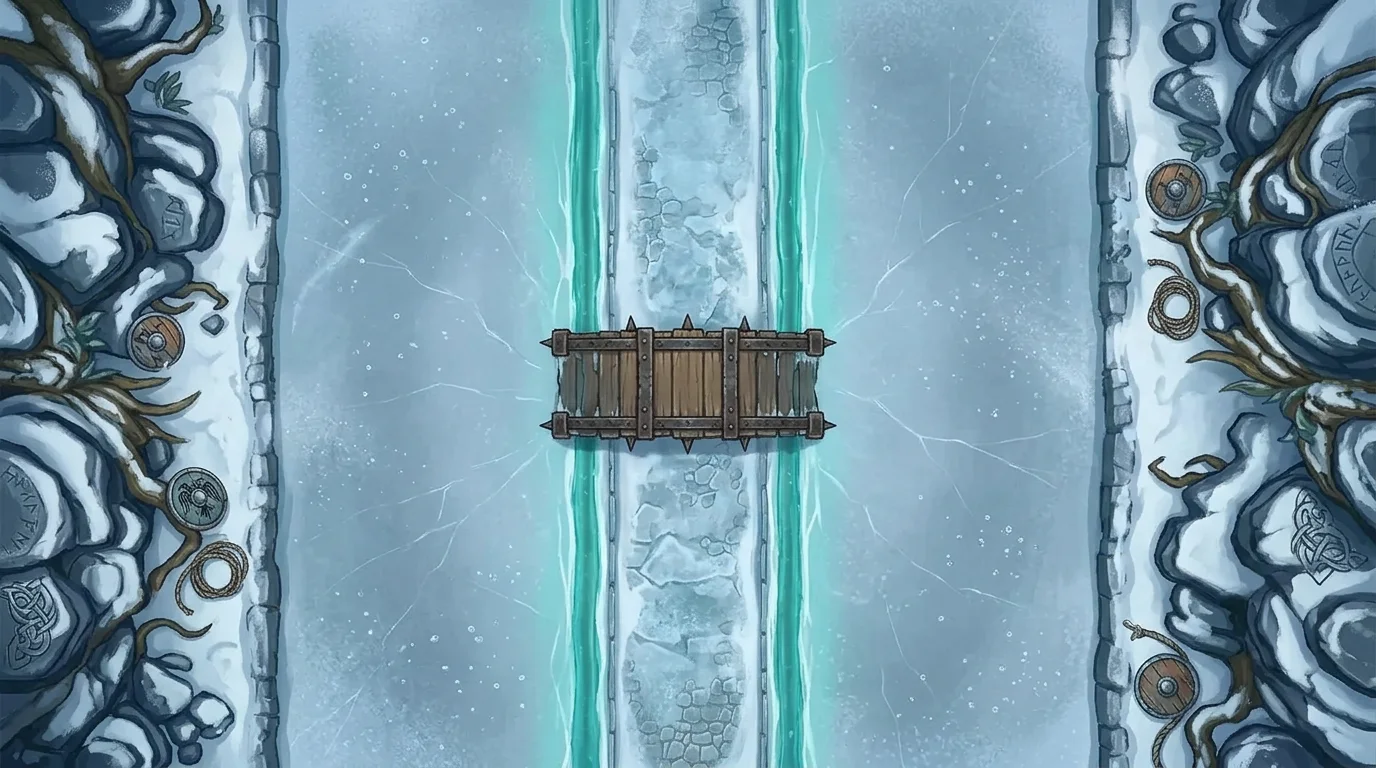
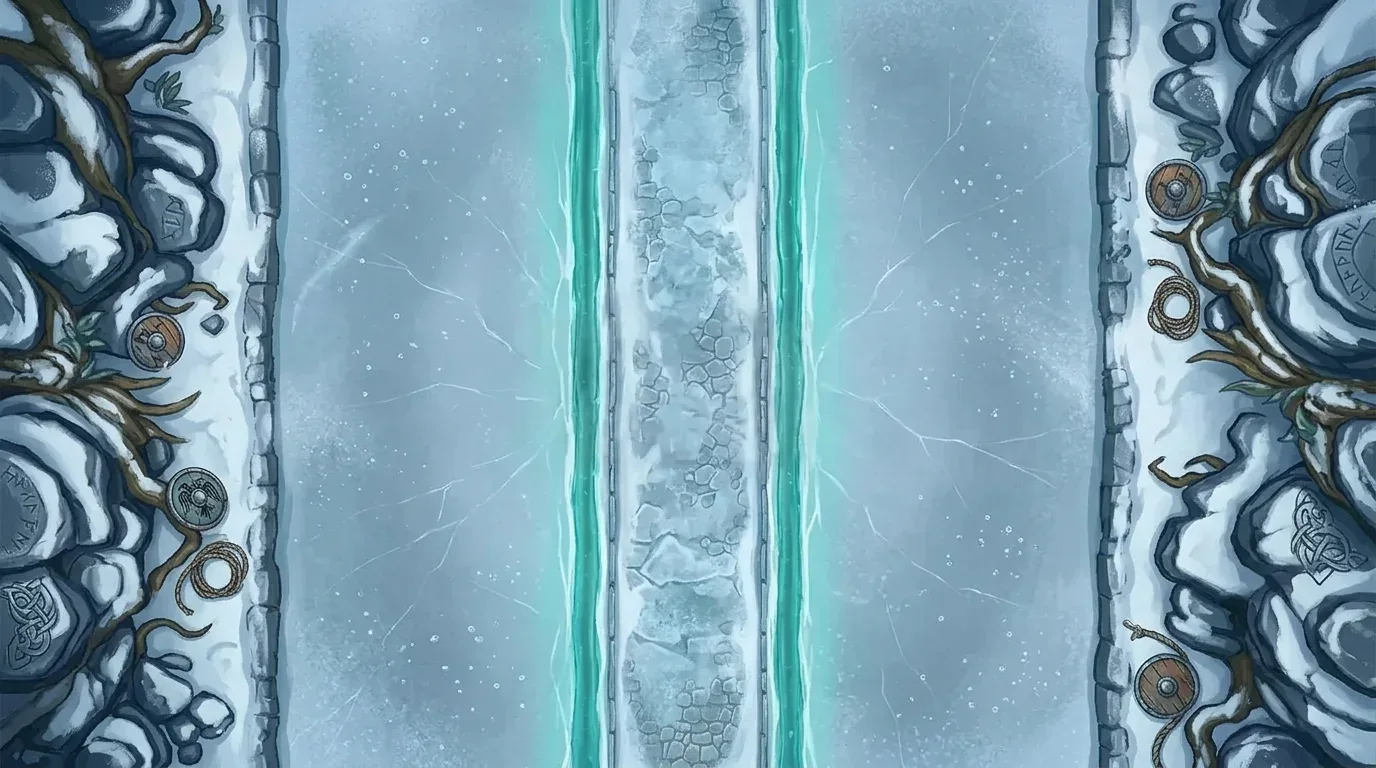
Add cinematic MOBA chapter masters and clear frozen lane

Changed region(s): [[0.375, 0.4062, 0.625, 0.5938]]

diff --git a/src/games/RpgMobaBoard.jsx b/src/games/RpgMobaBoard.jsx
@@ -79,6 +79,15 @@ const MOBA_PHASE_STEPS = [
   { id: 'blocage', label: 'Réponse', title: 'Réponse à l’attaque' },
   { id: 'fin', label: 'Réponse', title: 'Réponse de fin de tour' },
 ];
+// Répartition fixe : pas de tirage aléatoire à chaque rendu du master.
+const FLOCONS_INTERLUDE = Array.from({ length: 36 }, (_, index) => ({
+  '--flake-x': `${(index * 37 + index * index * 3) % 100}%`,
+  '--flake-y': `${(index * 29 + 11) % 100}%`,
+  '--flake-size': `${2 + index % 4}px`,
+  '--flake-delay': `${-((index * 13) % 120) / 10}s`,
+  '--flake-duration': `${9 + index % 7 * 2}s`,
+  '--flake-drift': `${(index * 19) % 55 - 27}px`,
+}));
 const TAILLE_PAGE_MAIN = 6;
 const noms = { joueur: 'Vous', sorcier: 'IA', tous: 'Vous + IA' };
 const voies = { left: 'Voie gauche', center: 'Voie centrale', right: 'Voie droite' };
@@ -205,6 +214,7 @@ export default function RpgMobaBoard({ onQuitter, onBackRef = null, initialiser 
   const [plateauMoba, setPlateauMoba] = useState(MOBA_PLATEAU_PAR_DEFAUT);
   const [modeHistoire, setModeHistoire] = useState(false);
   const [chapitreIndex, setChapitreIndex] = useState(0);
+  const [annoncePremier, setAnnoncePremier] = useState(false);
   const [interlude, setInterlude] = useState(false);
   const deckCampagneRef = useRef(null);
   const musiqueMobaRef = useRef(null);
@@ -221,22 +231,22 @@ export default function RpgMobaBoard({ onQuitter, onBackRef = null, initialiser 
     const musique = musiqueMobaRef.current;
     // Le master annonce déjà le plateau suivant : sa musique accompagne le
     // portrait, puis reste la même lorsque le nouveau duel s'ouvre.
-    const plateauMusical = interlude && modeHistoire
-      ? MOBA_HISTOIRE[chapitreIndex + 1]?.plateau.musique ?? plateauMoba.musique
-      : plateauMoba.musique;
+    const plateauMusical = annoncePremier ? MOBA_HISTOIRE[0].plateau.musique
+      : interlude && modeHistoire ? MOBA_HISTOIRE[chapitreIndex + 1]?.plateau.musique ?? plateauMoba.musique
+        : plateauMoba.musique;
     musique?.setPlateau(plateauMusical);
-    if (etape === 'choix') musique?.stop();
+    if (etape === 'choix' && !annoncePremier) musique?.stop();
     else if (sonActif && !document.hidden) void musique?.start();
     else musique?.pause();
-  }, [plateauMoba, etape, sonActif, interlude, modeHistoire, chapitreIndex]);
+  }, [plateauMoba, etape, sonActif, interlude, modeHistoire, chapitreIndex, annoncePremier]);
   useEffect(() => {
     const surVisibilite = () => {
-      if (document.hidden || !sonActif || etape === 'choix') musiqueMobaRef.current?.pause();
+      if (document.hidden || !sonActif || (etape === 'choix' && !annoncePremier)) musiqueMobaRef.current?.pause();
       else void musiqueMobaRef.current?.start();
     };
     document.addEventListener('visibilitychange', surVisibilite);
     return () => document.removeEventListener('visibilitychange', surVisibilite);
-  }, [etape, sonActif]);
+  }, [etape, sonActif, annoncePremier]);
   const [decksPersonnalises, setDecksPersonnalises] = useState({ joueur: null, sorcier: null });
   const [edition, setEdition] = useState(null);
   const [confirmerSortie, setConfirmerSortie] = useState(false);
@@ -417,6 +427,7 @@ export default function RpgMobaBoard({ onQuitter, onBackRef = null, initialiser 
       else if (confirmerSortie) fermerConfirmation();
       else if (retourAnnonceRef.current) retourAnnonceRef.current();
       else if (edition) setEdition(null);
+      else if (annoncePremier) { setAnnoncePremier(false); if (etape === 'choix') setModeHistoire(false); }
       else if (etape === 'choix' || (Boolean(duel.moba.winner || duel.fin?.gagnant || duel.fin?.nul) && !interlude)) onQuitter();
       else if (interlude) setInterlude(false);
       else setConfirmerSortie(true); // Ne pas détruire une partie en cours sans confirmation.
@@ -424,7 +435,7 @@ export default function RpgMobaBoard({ onQuitter, onBackRef = null, initialiser 
     };
     onBackRef.current = retour;
     return () => { if (onBackRef.current === retour) onBackRef.current = null; };
-  }, [onBackRef, apercu, parametresOuverts, cimetiere, confirmerSortie, edition, etape, onQuitter, duel, interlude]);
+  }, [onBackRef, apercu, parametresOuverts, cimetiere, confirmerSortie, edition, etape, onQuitter, duel, interlude, annoncePremier]);
   const clavierConfirmation = (event) => {
     if (event.key === 'Escape') { event.stopPropagation(); fermerConfirmation(); return; }
     if (event.key !== 'Tab') return;
@@ -472,6 +483,7 @@ export default function RpgMobaBoard({ onQuitter, onBackRef = null, initialiser 
   const fini = Boolean(duel.moba.winner || duel.fin?.gagnant || duel.fin?.nul);
   const vainqueur = duel.moba.winner ?? duel.fin?.gagnant ?? (duel.fin?.nul ? 'nul' : null);
   const prochainChapitre = modeHistoire ? prochainChapitreMoba(chapitreIndex, vainqueur) : null;
+  const chapitreAnnonce = annoncePremier ? MOBA_HISTOIRE[0] : fini && interlude ? prochainChapitre : null;
   // Le tour appartient toujours au même camp pendant les fenêtres de réponse.
   // Observer le duel et son camp, pas l'étape d'interaction, évite les doublons.
   const partieCommencee = etape !== 'choix' && etape !== 'mulligan' && !fini;
@@ -1094,15 +1106,26 @@ export default function RpgMobaBoard({ onQuitter, onBackRef = null, initialiser 
   };
   const nouvellePartie = (partie = null) => { setPageMain(0); setPageJournal(0); setVueJournal('texte'); setApercu(null); setCimetiere(null); setConfirmerSortie(false); setDuel(partie ?? initialiser()); setCarte(null); setSacrificesChoisis([]); setAttaquants([]); setCiblesRapides({}); setCibleRapideEnCours(null); setCibleVoieEnCours(null); setBlocages({}); setCible(null); setEtape(partie || initialiser !== nouveau ? 'mulligan' : 'choix'); setMulliganIndices([]); setErreur(''); setIaBloquee(false); setPrixLane(null); setCibleSortPrimaire(null); setEvents([]); setSoinsVoies([]); effacerSoinsCreatures(); effacerBoucliers(); effacerEntrees(); effacerConquetes(); effacerSorties(); effacerRetoursExil(); setAnnonceSort(null); setAnnoncesApercues([]); setSortFx({}); setCombatFx({}); effacerRetoursCombat(); effacerImpactsIndividuels(); effacerRipostes(); effacerProjectiles(); effacerSignatures(); effacerChocs(); effacerParades(); setFantomes([]); setCerclesSacrifice([]); };
   const demarrerHistoire = () => {
-    const deck = deckPour('joueur');
-    if (!validationDeckJoueur.ok) return;
+    const deck = modeHistoire && deckCampagneRef.current ? deckCampagneRef.current : deckPour('joueur');
+    if (!deck || !rpgMobaValiderDeck(deck).ok) return;
     deckCampagneRef.current = deck;
+    // Ne toucher ni au duel ni au chapitre avant que le joueur ait validé le
+    // master : « Retour au résultat » doit conserver le vrai bilan final.
+    setInterlude(false);
+    setAnnoncePremier(true);
+  };
+  const lancerPremierChapitre = () => {
+    if (!deckCampagneRef.current) return;
     setModeHistoire(true);
     setChapitreIndex(0);
-    setInterlude(false);
     setDeckSorcier(MOBA_HISTOIRE[0].deck);
     setPlateauMoba(MOBA_HISTOIRE[0].plateau);
-    nouvellePartie(creerPartie(deck, MOBA_HISTOIRE[0].deck));
+    nouvellePartie(creerPartie(deckCampagneRef.current, MOBA_HISTOIRE[0].deck));
+    setAnnoncePremier(false);
+  };
+  const revenirDeLAnnonce = () => {
+    setAnnoncePremier(false);
+    if (etape === 'choix') setModeHistoire(false);
   };
   const ouvrirProchainChapitre = () => {
     const chapitre = prochainChapitreMoba(chapitreIndex, vainqueur);
@@ -1538,7 +1561,7 @@ export default function RpgMobaBoard({ onQuitter, onBackRef = null, initialiser 
         else if (dernier && !event.shiftKey && document.activeElement === dernier) { event.preventDefault(); premier.focus(); }
       }
     }}><rendu.ApercuCarteAppuiLong carte={rpgMobaCartePourApercu(cardById(apercu.carteId))} notesMoba={rpgMobaNotesCarte(cardById(apercu.carteId))} armes={apercu.armes.map(cardById).filter(Boolean)} furieDeclenchee={Boolean(apercu.entity?.furieDeclenchee)} statsFurie={apercu.entity?.furieDeclenchee ? { atk: apercu.entity.atk, def: apercu.entity.pv } : null} effetsEpuises={apercu.effetsEpuises} onFermer={fermerApercu} /></div>}
-    {etape === 'choix' && !edition && <div className="moba__overlay moba__setup-overlay" role="dialog" aria-modal="true" aria-label="Choix des decks">
+    {etape === 'choix' && !edition && !annoncePremier && <div className="moba__overlay moba__setup-overlay" role="dialog" aria-modal="true" aria-label="Choix des decks">
       <div className="moba__modal moba__setup">
         <div className="moba__setup-kicker"><span>LE SABLIER</span><i aria-hidden="true">✦</i><span>DUEL SOLO</span></div>
         <h2>Préparez votre duel</h2>
@@ -1573,7 +1596,7 @@ export default function RpgMobaBoard({ onQuitter, onBackRef = null, initialiser 
         </div>
       </div>
     </div>}
-    {etape === 'choix' && edition && <RpgMobaDeckEditor key={edition} deck={deckPour(edition) ?? { cardIds: [], elements: [] }} joueur={noms[edition]} onCancel={() => setEdition(null)} onSave={(deck) => { setDecksPersonnalises((decks) => ({ ...decks, [edition]: deck })); setEdition(null); }} />}
+    {etape === 'choix' && edition && !annoncePremier && <RpgMobaDeckEditor key={edition} deck={deckPour(edition) ?? { cardIds: [], elements: [] }} joueur={noms[edition]} onCancel={() => setEdition(null)} onSave={(deck) => { setDecksPersonnalises((decks) => ({ ...decks, [edition]: deck })); setEdition(null); }} />}
     {etape === 'mulligan' && <div className="moba__overlay moba__mulligan-overlay" inert={Boolean(apercu)} role="dialog" aria-modal="true" aria-label="Votre main de départ"><div className="moba__modal moba__mulligan"><div className="moba__mulligan-intro"><span>PRÉPARATION · {noms[mulliganSide].toUpperCase()}</span><h2>Votre main de départ</h2><p>Touchez les cartes à échanger, ou gardez votre main.</p></div><div className="moba__mulligan-cards">{duel[mulliganSide].main.map((id, index) => {
       const card = cardById(id), choisi = mulliganIndices.includes(index);
       const toggle = () => setMulliganIndices((ids) => ids.includes(index) ? ids.filter((n) => n !== index) : [...ids, index]);
@@ -1614,20 +1637,21 @@ export default function RpgMobaBoard({ onQuitter, onBackRef = null, initialiser 
     </div>}
     {confirmerSortie && !fini && <div className="moba__overlay" role="dialog" aria-modal="true" aria-labelledby="moba-quitter-title" aria-describedby="moba-quitter-description" onKeyDown={clavierConfirmation}><div className="moba__modal moba__quit-modal"><span>FIN DE PARTIE</span><h2 id="moba-quitter-title">Quitter le duel ?</h2><p id="moba-quitter-description">La partie en cours ne sera pas sauvegardée.</p><button type="button" autoFocus className="moba__primary" onClick={fermerConfirmation}>Continuer le duel</button><button type="button" onClick={onQuitter}>Quitter sans sauvegarder</button></div></div>}
     {recherche?.cote === 'joueur' && !fini && !confirmerSortie && <div className="moba__overlay" inert={Boolean(apercu)} role="dialog" aria-modal="true" aria-label="Recherche dans votre deck"><div className="moba__modal moba__mulligan"><span>CAPACITÉ D’ARRIVÉE</span><h2>Choisissez une carte</h2><p>{cardById(recherche.sourceCarteId)?.name} cherche dans votre deck. Choisissez une carte admissible à ajouter à votre main.</p><div className="moba__mulligan-cards moba__search-cards">{rpgMobaCandidatsRecherche(duel, 'joueur').map((id, index) => <div className="moba__search-item" key={id} {...interactionsApercu(id)}><button type="button" autoFocus={index === 0} className="moba__mulligan-card" onClick={() => afficherResultat(rpgMobaResoudreRecherche(duel, 'joueur', id))}><img src={cardArt(id)} alt="" /><b>{cardById(id)?.name}</b><small>COÛT {cardById(id)?.cost}</small><small className="moba__search-text">{cardById(id)?.text}</small></button></div>)}</div>{erreur && <p className="moba__error" role="alert">{erreur}</p>}</div></div>}
-    {fini && interlude && prochainChapitre && <section className="moba__interlude" role="dialog" aria-modal="true" aria-labelledby="moba-interlude-titre" onKeyDown={(event) => { if (event.key === 'Escape') { event.stopPropagation(); setInterlude(false); } else if (event.key === 'Tab') { const boutons = [...event.currentTarget.querySelectorAll('button')]; if (event.shiftKey && document.activeElement === boutons[0]) { event.preventDefault(); boutons.at(-1)?.focus(); } else if (!event.shiftKey && document.activeElement === boutons.at(-1)) { event.preventDefault(); boutons[0]?.focus(); } } }} style={{ '--moba-interlude-decor': `url("${import.meta.env.BASE_URL}${prochainChapitre.decor}")` }}>
+    {chapitreAnnonce && <section className={`moba__interlude${chapitreAnnonce.ambiance === 'neige' ? ' moba__interlude--neige' : ''}`} role="dialog" aria-modal="true" aria-labelledby="moba-interlude-titre" onKeyDown={(event) => { if (event.key === 'Escape') { event.stopPropagation(); if (annoncePremier) revenirDeLAnnonce(); else setInterlude(false); } else if (event.key === 'Tab') { const boutons = [...event.currentTarget.querySelectorAll('button')]; if (event.shiftKey && document.activeElement === boutons[0]) { event.preventDefault(); boutons.at(-1)?.focus(); } else if (!event.shiftKey && document.activeElement === boutons.at(-1)) { event.preventDefault(); boutons[0]?.focus(); } } }} style={{ '--moba-interlude-decor': `url("${import.meta.env.BASE_URL}${chapitreAnnonce.decor}")` }}>
       <div className="moba__interlude-scene" aria-hidden="true" />
+      <div className="moba__interlude-hero"><img src={cardArt(chapitreAnnonce.portrait)} alt={`La peinture originale de ${cardById(chapitreAnnonce.portrait)?.name ?? chapitreAnnonce.deck.name}, prêt à vous affronter`} draggable={false} /></div>
+      {chapitreAnnonce.ambiance === 'neige' && <div className="moba__interlude-snow" aria-hidden="true">{FLOCONS_INTERLUDE.map((style, index) => <i key={index} style={style} />)}</div>}
       <div className="moba__interlude-copy">
-        <span className="moba__interlude-kicker">LE SABLIER · CHAPITRE {chapitreIndex + 2} / {MOBA_HISTOIRE.length}</span>
+        <span className="moba__interlude-kicker">LE SABLIER · CHAPITRE {annoncePremier ? 1 : chapitreIndex + 2} / {MOBA_HISTOIRE.length}</span>
         <span className="moba__interlude-rule" aria-hidden="true">✦ ─────────── ✦</span>
-        <p className="moba__interlude-eyebrow">LE PROCHAIN ADVERSAIRE</p>
-        <h2 id="moba-interlude-titre">{prochainChapitre.deck.name}</h2>
-        <p className="moba__interlude-text">{prochainChapitre.texte}</p>
-        <p className="moba__interlude-destination">⌖ {prochainChapitre.titre} · {prochainChapitre.plateau.nom}</p>
-        <div className="moba__interlude-actions"><button type="button" autoFocus className="moba__primary" onClick={ouvrirProchainChapitre}>Affronter {prochainChapitre.deck.name} →</button><button type="button" onClick={onQuitter}>Quitter l’histoire</button></div>
+        <p className="moba__interlude-eyebrow">{annoncePremier ? 'LE PREMIER AFFRONTEMENT' : 'LE PROCHAIN ADVERSAIRE'}</p>
+        <h2 id="moba-interlude-titre">{chapitreAnnonce.deck.name}</h2>
+        <p className="moba__interlude-text">{chapitreAnnonce.texte}</p>
+        <p className="moba__interlude-destination">✦ {chapitreAnnonce.titre} · {chapitreAnnonce.plateau.nom}</p>
+        <div className="moba__interlude-actions"><button type="button" autoFocus className="moba__primary" onClick={annoncePremier ? lancerPremierChapitre : ouvrirProchainChapitre}>Affronter {chapitreAnnonce.deck.name} →</button><button type="button" onClick={annoncePremier ? revenirDeLAnnonce : onQuitter}>{annoncePremier ? etape === 'choix' ? 'Retour à la préparation' : 'Retour au résultat' : 'Quitter l’histoire'}</button></div>
       </div>
-      <figure className="moba__interlude-portrait"><img src={cardArt(prochainChapitre.portrait)} alt={`Illustration originale de la carte ${cardById(prochainChapitre.portrait)?.name ?? prochainChapitre.deck.name}`} /><figcaption>ILLUSTRATION DE CARTE · {cardById(prochainChapitre.portrait)?.name}</figcaption></figure>
     </section>}
-    {fini && !interlude && <div className="moba__end-overlay" role="dialog" aria-modal="true" aria-label={vainqueur === 'joueur' ? 'Victoire' : vainqueur === 'sorcier' ? 'Défaite' : vainqueur === 'nul' ? 'Match nul' : 'Partie terminée'} onKeyDown={(event) => {
+    {fini && !interlude && !annoncePremier && <div className="moba__end-overlay" role="dialog" aria-modal="true" aria-label={vainqueur === 'joueur' ? 'Victoire' : vainqueur === 'sorcier' ? 'Défaite' : vainqueur === 'nul' ? 'Match nul' : 'Partie terminée'} onKeyDown={(event) => {
       if (event.key !== 'Tab') return;
       const elements = [...event.currentTarget.querySelectorAll('button:not(:disabled), summary')];
       if (event.shiftKey && document.activeElement === elements[0]) { event.preventDefault(); elements.at(-1)?.focus(); }

diff --git a/src/games/rpgMobaHistoire.css b/src/games/rpgMobaHistoire.css
@@ -1,5 +1,6 @@
-/* Masters de transition : décors peints, portraits prélevés sans retouche sur
-   les vraies cartes. Le format paysage ET le portrait mobile restent lisibles. */
+/* Interludes : le personnage est la peinture originale de sa carte, en plein
+   écran, sans cadre ni portrait réinventé. Seuls les bords se fondent dans un
+   décor d'extension ; la peinture elle-même reste la source de l'image. */
 .moba__story-start { display: flex; align-items: center; justify-content: space-between; gap: 14px; margin: 8px 0 12px; padding: 10px 13px; border: 1px solid #bc925a; border-radius: 6px; background: linear-gradient(100deg, #333326, #151e25); text-align: left; }
 .moba__story-start > div { display: grid; gap: 3px; }
 .moba__story-start span { color: #edcd84; font: 700 10px system-ui,sans-serif; letter-spacing: .13em; }
@@ -8,10 +9,14 @@
 .moba__story-start button { flex: 0 0 auto; margin: 0; min-height: 40px; padding: 8px 14px; }
 .moba__story-start button:disabled { opacity: .5; cursor: not-allowed; }
 .moba__end-chapter { color: #f2d293 !important; font-weight: 700; }
-.moba__interlude { position: fixed; z-index: 10001; inset: 0; isolation: isolate; display: grid; grid-template-columns: minmax(0, 1fr) minmax(0, .8fr); align-items: center; gap: clamp(10px, 4vw, 80px); box-sizing: border-box; overflow-y: auto; padding: max(22px, env(safe-area-inset-top)) max(5vw, env(safe-area-inset-right)) max(22px, env(safe-area-inset-bottom)) max(5vw, env(safe-area-inset-left)); color: #f8e9d0; background: #0a1519; }
-.moba__interlude-scene { position: absolute; z-index: -1; inset: 0; background: linear-gradient(90deg, #061115ed 0%, #091619b0 42%, #06101184 100%), var(--moba-interlude-decor) center / cover no-repeat; }
-.moba__interlude::before { content: ''; position: absolute; inset: 10px; border: 1px solid #d3a86977; box-shadow: inset 0 0 0 5px #101a1a8c, 0 0 0 1px #080b0b; pointer-events: none; }
-.moba__interlude-copy { position: relative; width: min(100%, 600px); padding: 10px 0 10px clamp(12px, 2vw, 30px); text-shadow: 0 2px 14px #000; }
+
+.moba__interlude { position: fixed; z-index: 10001; inset: 0; isolation: isolate; display: flex; align-items: center; box-sizing: border-box; overflow-x: hidden; overflow-y: auto; padding: max(22px, env(safe-area-inset-top)) max(5vw, env(safe-area-inset-right)) max(22px, env(safe-area-inset-bottom)) max(5vw, env(safe-area-inset-left)); color: #f8e9d0; background: #0a1519; }
+.moba__interlude-scene { position: absolute; z-index: 0; inset: 0; pointer-events: none; background: linear-gradient(90deg, #061115d6 0%, #0916199c 47%, #06101189 100%), var(--moba-interlude-decor) center / cover no-repeat; }
+.moba__interlude-hero { position: absolute; z-index: 1; top: 0; bottom: 0; right: -1%; width: min(59vw, 900px); overflow: hidden; pointer-events: none; -webkit-mask-image: linear-gradient(90deg, transparent 0%, #000 19%, #000 87%, transparent 100%); mask-image: linear-gradient(90deg, transparent 0%, #000 19%, #000 87%, transparent 100%); }
+.moba__interlude-hero img { display: block; width: 100%; height: 100%; object-fit: cover; object-position: 50% 18%; transform-origin: 54% 35%; animation: moba-interlude-approche 18s ease-in-out infinite alternate; }
+@keyframes moba-interlude-approche { from { transform: scale(1); } to { transform: scale(1.075); } }
+.moba__interlude::before { content: ''; position: absolute; z-index: 2; inset: 0; pointer-events: none; background: radial-gradient(ellipse at 68% 43%, transparent 14%, #040a103d 74%, #040a10b8 100%), linear-gradient(90deg, #06111543 0%, transparent 60%); }
+.moba__interlude-copy { position: relative; z-index: 3; width: min(48%, 610px); padding: 12px 0 12px clamp(12px, 2vw, 30px); text-shadow: 0 2px 16px #000; }
 .moba__interlude-kicker, .moba__interlude-eyebrow, .moba__interlude-destination { color: #e6be7f; font: 700 clamp(10px, 1.1vw, 13px)/1.5 system-ui,sans-serif; letter-spacing: .16em; }
 .moba__interlude-rule { display: block; margin: clamp(15px, 3vh, 32px) 0; color: #e6be7f; letter-spacing: .2em; }
 .moba__interlude-eyebrow { margin: 0 0 8px; }
@@ -22,20 +27,30 @@
 .moba__interlude-actions button { min-height: 42px; margin: 0; padding: 9px 16px; border: 1px solid #ad8a5c; border-radius: 5px; color: #fff3db; background: #182329d9; font: 700 12px/1.2 system-ui,sans-serif; cursor: pointer; }
 .moba__interlude-actions button.moba__primary { color: #241a0e; background: #e8c486; }
 .moba__interlude-actions button:focus-visible { outline: 3px solid #fff; outline-offset: 3px; }
-.moba__interlude-portrait { position: relative; justify-self: center; width: min(100%, 360px, 38vw); margin: 0; padding: 9px; border: 1px solid #e6bd81; background: #101b1e; box-shadow: 0 20px 90px #000e, 0 0 0 5px #15191bd9, 0 0 0 6px #bd986394; transform: rotate(2deg); }
-.moba__interlude-portrait img { display: block; width: 100%; aspect-ratio: 4 / 5; object-fit: cover; }
-.moba__interlude-portrait figcaption { padding: 9px 4px 2px; color: #e9cf9c; font: 700 9px/1.3 system-ui,sans-serif; letter-spacing: .12em; text-align: center; }
+
+/* Neige légère en avant-plan : vitesse, profondeur et dérive individuelles,
+   aucune texture vidéo ni minuteur JS. Présente uniquement sur le lac gelé. */
+.moba__interlude-snow { position: absolute; z-index: 2; inset: 0; overflow: hidden; pointer-events: none; }
+.moba__interlude-snow i { position: absolute; left: var(--flake-x); top: var(--flake-y); width: var(--flake-size); height: var(--flake-size); border-radius: 50%; background: #f2faff; box-shadow: 0 0 7px #c7e8ff; opacity: 0; animation: moba-interlude-flocon var(--flake-duration) linear var(--flake-delay) infinite; }
+@keyframes moba-interlude-flocon {
+  0% { transform: translate3d(0, -15vh, 0); opacity: 0; }
+  13% { opacity: .74; }
+  83% { opacity: .62; }
+  100% { transform: translate3d(var(--flake-drift), 88vh, 0); opacity: 0; }
+}
+
 @media (max-width: 650px) {
   .moba__story-start { flex-wrap: wrap; }
   .moba__story-start button { width: 100%; }
-  .moba__interlude { grid-template-columns: 1fr; gap: 8px; justify-items: center; align-content: center; padding: max(22px, env(safe-area-inset-top)) 24px max(22px, env(safe-area-inset-bottom)); text-align: center; }
-  .moba__interlude-scene { background: linear-gradient(#071014bf, #071014e8), var(--moba-interlude-decor) center / cover no-repeat; }
-  .moba__interlude-copy { order: 2; padding: 0; }
-  .moba__interlude-portrait { order: 1; width: min(40vw, 175px); padding: 5px; transform: rotate(-2deg); }
-  .moba__interlude-portrait figcaption { font-size: 7px; padding: 5px 0 0; }
-  .moba__interlude-rule { margin: 5px 0; }
-  .moba__interlude h2 { font-size: clamp(29px, 8vw, 48px); }
-  .moba__interlude-text { margin: 10px 0; font-size: 14px; }
+  .moba__interlude { align-items: flex-end; padding: max(18px, env(safe-area-inset-top)) 24px max(24px, env(safe-area-inset-bottom)); text-align: center; }
+  .moba__interlude-scene { background: linear-gradient(#0710146e, #071014c0), var(--moba-interlude-decor) center / cover no-repeat; }
+  .moba__interlude-hero { inset: 0; width: 100%; -webkit-mask-image: linear-gradient(to bottom, #000 0%, #000 55%, transparent 89%); mask-image: linear-gradient(to bottom, #000 0%, #000 55%, transparent 89%); }
+  .moba__interlude-hero img { object-position: 55% 25%; transform-origin: 56% 30%; }
+  .moba__interlude::before { background: linear-gradient(to bottom, #050e1280 0%, transparent 31%, #07111773 55%, #071117e8 75%, #071117 100%); }
+  .moba__interlude-copy { width: 100%; padding: 0; }
+  .moba__interlude-rule { margin: 7px 0; }
+  .moba__interlude h2 { margin: 0 auto; font-size: clamp(29px, 8vw, 48px); }
+  .moba__interlude-text { margin: 10px auto; font-size: 14px; }
   .moba__interlude-destination { margin-bottom: 10px; }
   .moba__interlude-actions { justify-content: center; }
 }
@@ -45,5 +60,8 @@
   .moba__interlude h2 { font-size: clamp(25px, 4vw, 42px); }
   .moba__interlude-text { margin: 8px 0; font-size: 13px; }
   .moba__interlude-destination { margin-bottom: 8px; }
-  .moba__interlude-portrait { width: min(25vw, 175px); }
+}
+@media (prefers-reduced-motion: reduce) {
+  .moba__interlude-hero img { animation: none; }
+  .moba__interlude-snow i { animation: none; opacity: .35; }
 }

diff --git a/tests/rpg-moba-histoire.test.js b/tests/rpg-moba-histoire.test.js
@@ -13,6 +13,8 @@ import { cardById } from '../src/games/rpgCards.js';
 test('trois chapitres distincts, decks compatibles, musiques classiques et portraits des vraies cartes', async () => {
   assert.deepEqual(MOBA_HISTOIRE.map((c) => c.plateau?.id), ['trois-voies', 'lac-gele-viking', 'temple-du-nil-egyptien']);
   assert.deepEqual(MOBA_HISTOIRE.map((c) => c.deck?.id), ['tour-listes-1', 'tour-fjord-3', 'tour-sablier-5']);
+  assert.equal(MOBA_HISTOIRE[0].portrait, 'guetteur-du-beffroi');
+  assert.ok(MOBA_HISTOIRE[0].deck.cardIds.includes(MOBA_HISTOIRE[0].portrait));
   for (const chapitre of MOBA_HISTOIRE) {
     assert.equal(rpgMobaValiderDeck(chapitre.deck).ok, true, chapitre.titre);
     assert.ok(RPG_PLATEAU_MUSIC_FILES[chapitre.plateau.musique], chapitre.plateau.nom);
@@ -30,6 +32,11 @@ test('trois chapitres distincts, decks compatibles, musiques classiques et portr
   assert.equal(prochainChapitreMoba(0, 'joueur'), MOBA_HISTOIRE[1]);
   assert.equal(prochainChapitreMoba(1, 'joueur'), MOBA_HISTOIRE[2]);
   assert.equal(prochainChapitreMoba(2, 'joueur'), null);
+  assert.equal(MOBA_HISTOIRE[1].ambiance, 'neige');
+  assert.equal(MOBA_HISTOIRE[2].ambiance, undefined);
+  const css = await readFile(new URL('../src/games/rpgMobaHistoire.css', import.meta.url), 'utf8');
+  assert.match(css, /moba-interlude-approche[^]*?scale\(1\.075\)/);
+  assert.match(css, /prefers-reduced-motion: reduce/);
 });
 
 test('l’histoire enchaîne victoire, master de carte, nouveau plateau, nouvel adversaire et bilan final', async () => {
@@ -62,11 +69,27 @@ test('l’histoire enchaîne victoire, master de carte, nouveau plateau, nouvel 
       partie.duel.moba.winner = adverse.id === 'tour-fjord-3' && parties.length === 2 ? 'sorcier' : 'joueur';
       return partie.duel;
     };
+    const retourMobaRef = { current: null };
     root = createRoot(document.getElementById('root'));
-    await act(async () => root.render(React.createElement(Board, { decksMaison: [deck], creerPartie, onQuitter: () => {} })));
+    await act(async () => root.render(React.createElement(Board, { decksMaison: [deck], creerPartie, onQuitter: () => {}, onBackRef: retourMobaRef })));
     assert.ok(document.querySelector('.moba__story-start button'));
     assert.equal(document.querySelector('.moba').dataset.mobaPlateau, 'trois-voies');
     await act(async () => document.querySelector('.moba__story-start button').click());
+    assert.equal(parties.length, 0, 'Le duel ne commence pas avant le premier master');
+    let premierMaster = document.querySelector('.moba__interlude');
+    assert.ok(premierMaster);
+    assert.match(premierMaster.textContent, /LE PREMIER AFFRONTEMENT/);
+    assert.match(premierMaster.querySelector('.moba__interlude-hero img').src, /guetteur-du-beffroi\.jpg/);
+    assert.equal(premierMaster.querySelectorAll('.moba__interlude-snow i').length, 0);
+    assert.equal(document.querySelector('.moba__setup-overlay'), null);
+    assert.ok(lectures.some((audio) => audio.src.endsWith(RPG_PLATEAU_MUSIC_FILES['table-des-heures'])));
+    await act(async () => retourMobaRef.current());
+    assert.ok(document.querySelector('.moba__setup-overlay'), 'Retour à la préparation depuis le master');
+    assert.equal(parties.length, 0);
+    await act(async () => document.querySelector('.moba__story-start button').click());
+    premierMaster = document.querySelector('.moba__interlude');
+    await act(async () => premierMaster.querySelector('.moba__primary').click());
+    assert.equal(document.querySelector('.moba__interlude'), null);
     assert.equal(parties[0][0].id, deck.id);
     assert.equal(parties[0][1].id, MOBA_HISTOIRE[0].deck.id);
     assert.match(document.querySelector('.moba__end-chapter').textContent, /Chapitre 1 \/ 3/);
@@ -81,6 +104,9 @@ test('l’histoire enchaîne victoire, master de carte, nouveau plateau, nouvel 
       await act(async () => document.querySelector('.moba__end-actions .moba__primary').click());
       const interlude = document.querySelector('.moba__interlude');
       assert.ok(interlude);
+      assert.ok(interlude.querySelector('.moba__interlude-hero img'), 'Le personnage occupe le master, sans cadre de carte');
+      assert.equal(interlude.querySelector('.moba__interlude-portrait'), null);
+      assert.equal(interlude.querySelectorAll('.moba__interlude-snow i').length, index === 1 ? 36 : 0);
       assert.match(interlude.querySelector('img').src, new RegExp(`${MOBA_HISTOIRE[index].portrait}\\.jpg`));
       assert.match(interlude.style.getPropertyValue('--moba-interlude-decor'), new RegExp(MOBA_HISTOIRE[index].decor));
       assert.match(interlude.textContent, new RegExp(MOBA_HISTOIRE[index].deck.name));
@@ -96,6 +122,19 @@ test('l’histoire enchaîne victoire, master de carte, nouveau plateau, nouvel 
     assert.match(document.querySelector('.moba__end-panel h2').textContent, /Histoire accomplie/);
     assert.equal(document.querySelector('.moba__interlude'), null);
     assert.ok(lectures.some((audio) => audio.src.includes('Egypt.mp3')));
+    const partiesTerminees = parties.length;
+    await act(async () => document.querySelector('.moba__end-actions .moba__primary').click());
+    assert.equal(parties.length, partiesTerminees, 'Recommencer réaffiche le premier master avant de recréer un duel');
+    assert.match(document.querySelector('.moba__interlude').textContent, /CHAPITRE 1 \/ 3/);
+    await act(async () => document.querySelector('.moba__interlude-actions button:last-child').click());
+    assert.match(document.querySelector('.moba__end-panel h2').textContent, /Histoire accomplie/);
+    assert.match(document.querySelector('.moba__end-chapter').textContent, /Chapitre 3 \/ 3/);
+    assert.equal(document.querySelector('.moba').dataset.mobaPlateau, MOBA_HISTOIRE[2].plateau.id);
+    assert.equal(parties.length, partiesTerminees);
+    await act(async () => document.querySelector('.moba__end-actions .moba__primary').click());
+    await act(async () => document.querySelector('.moba__interlude .moba__primary').click());
+    assert.equal(parties.length, partiesTerminees + 1);
+    assert.equal(parties.at(-1)[1].id, MOBA_HISTOIRE[0].deck.id);
   } finally {
     if (root) await act(async () => root.unmount());
     await server.close(); dom.window.close();

diff --git a/src/games/rpgMobaHistoire.js b/src/games/rpgMobaHistoire.js
@@ -2,11 +2,12 @@ import { MOBA_PLATEAUX } from './rpgMobaPlateaux.js';
 import { MOBA_DECKS_TOURS } from './rpgMobaDecks.js';
 
 // Three independent MOBA duels: a fresh deck, hand, lanes and life each time.
-// The opponent's portrait is always a real card illustration, never an AI
-// rendering of a character. Interlude backgrounds are only scenery.
+// The opponent is shown full-bleed using an unmodified, genuine card
+// illustration. The interlude background only extends the scenery.
 const etapes = [
-  { plateau: 'trois-voies', deckId: 'tour-listes-1', titre: 'Le seuil des trois voies' },
-  { plateau: 'lac-gele-viking', deckId: 'tour-fjord-3', titre: 'Le serment du lac gelé', portrait: 'valkyrie-des-glaces',
+  { plateau: 'trois-voies', deckId: 'tour-listes-1', titre: 'Le seuil des trois voies', portrait: 'guetteur-du-beffroi',
+    decor: 'sablier-moba/interlude-premier-seuil.webp', texte: 'Le Guetteur de palier veille depuis le beffroi. Il a vu votre approche : au seuil des trois voies, il vous attend.' },
+  { plateau: 'lac-gele-viking', deckId: 'tour-fjord-3', titre: 'Le serment du lac gelé', portrait: 'valkyrie-des-glaces', ambiance: 'neige',
     decor: 'sablier-moba/interlude-lac-gele.webp', texte: 'Sur le lac figé, la Valkyrie des glaces garde le passage. Ses ailes se dessinent dans la brume : le prochain duel sera le sien.' },
   { plateau: 'temple-du-nil-egyptien', deckId: 'tour-sablier-5', titre: 'Le passage du Styx', portrait: 'passeur-au-masque-de-chacal',
     decor: 'sablier-moba/interlude-styx.webp', texte: 'Devant la rivière du Styx, le Passeur au masque de chacal vous attend. Au-delà des eaux noires s’élève le Temple du Nil.' },
